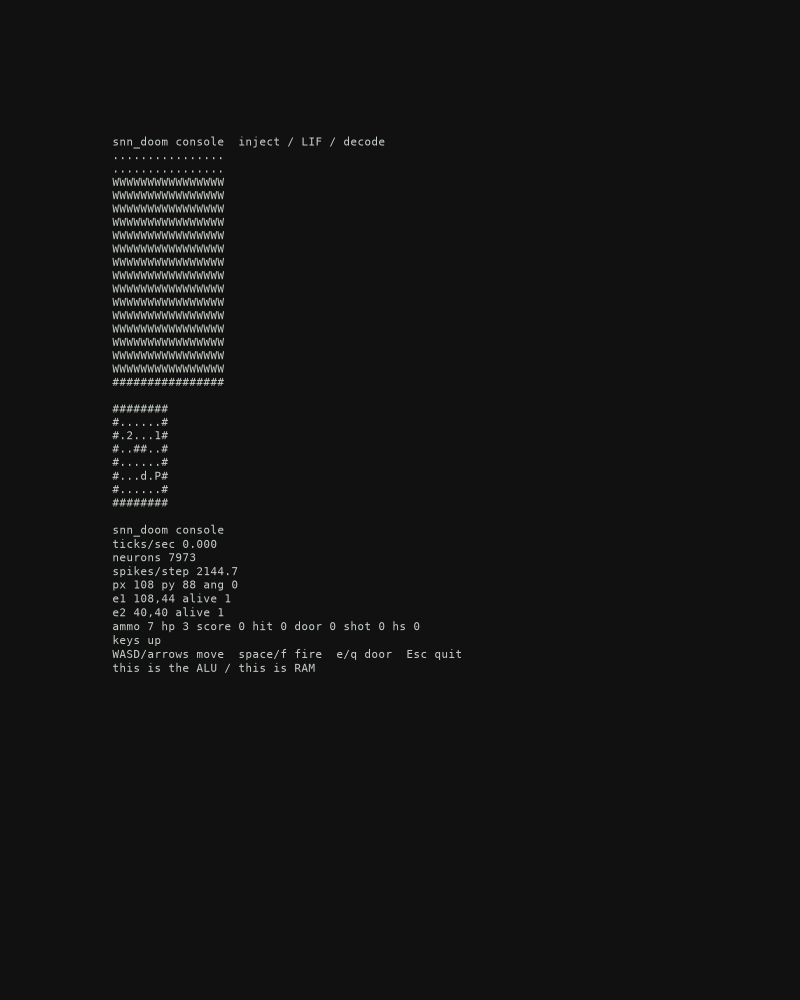
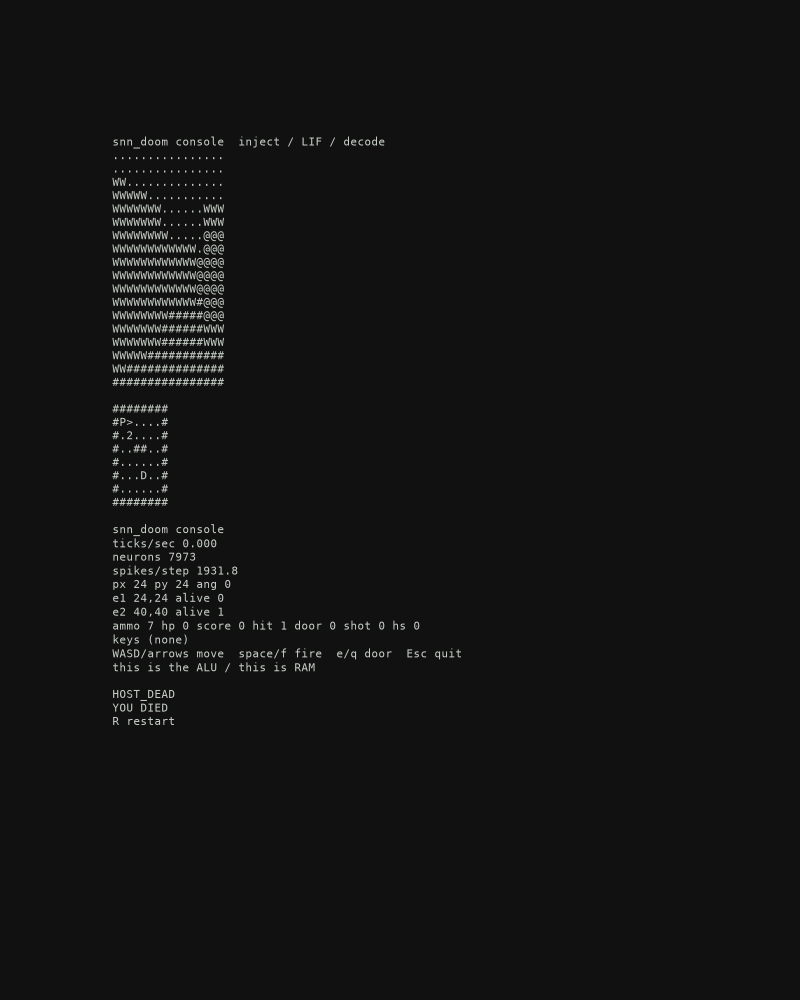
Show HOST_RADAR and HOST_DEAD in the README as GIFs.
play.gif is FRAME_READOUT beside HOST_RADAR. dead.gif is the YOU DIED splash on the same host surfaces.

Changed region(s): [[0.125, 0.465, 0.4062, 0.713], [0.1562, 0.155, 0.2812, 0.372]]

diff --git a/scripts/make_play_gif.py b/scripts/make_play_gif.py
@@ -1,21 +1,81 @@
 #!/usr/bin/env python3
 # Copyright (c) 2026 Martial Systems LLC
-"""Headless 16x18 play GIF plus a TTY still. No window."""
+"""Headless FRAME_READOUT + HOST_RADAR GIF, HOST_DEAD GIF, TTY still. No window."""
 from __future__ import annotations
 
 import sys
 from pathlib import Path
+
+import numpy as np
 
 ROOT = Path(__file__).resolve().parents[1]
 sys.path.insert(0, str(ROOT / "src"))
 
 from snn_doom.const import CENTER_COL
 from snn_doom.demo.console import render_tty
+from snn_doom.demo.radar import radar_rgb
 from snn_doom.demo.tapes import save_run
 from snn_doom.demo.view import frame_rgb, host_frame
 from snn_doom.modules.pipeline import build_doom_snn
 from snn_doom.teacher.maps import spawn
 from snn_doom.teacher.state import pack_input
+
+
+def _fonts():
+    from PIL import ImageFont
+
+    try:
+        return (
+            ImageFont.truetype("/System/Library/Fonts/Menlo.ttc", 16),
+            ImageFont.truetype("/System/Library/Fonts/Menlo.ttc", 42),
+            ImageFont.truetype("/System/Library/Fonts/Menlo.ttc", 18),
+        )
+    except OSError:
+        d = ImageFont.load_default()
+        return d, d, d
+
+
+def compose(view: np.ndarray, radar: np.ndarray, *, splash: bool = False) -> np.ndarray:
+    from PIL import Image, ImageDraw
+
+    title_h = 24
+    vh, vw = int(view.shape[0]), int(view.shape[1])
+    scale = max(vh // int(radar.shape[0]), 1)
+    rad = np.repeat(np.repeat(radar, scale, axis=0), scale, axis=1)
+    rh, rw = int(rad.shape[0]), int(rad.shape[1])
+    canvas_h = max(vh, rh) + title_h
+    canvas_w = vw + rw
+    canvas = np.zeros((canvas_h, canvas_w, 3), dtype=np.uint8)
+    canvas[title_h : title_h + vh, :vw] = view
+    y0 = title_h + (max(vh, rh) - rh) // 2
+    canvas[y0 : y0 + rh, vw : vw + rw] = rad
+    img = Image.fromarray(canvas)
+    draw = ImageDraw.Draw(img)
+    small, big, mid = _fonts()
+    draw.text((8, 4), "FRAME_READOUT", fill=(200, 208, 200), font=small)
+    draw.text((vw + 8, 4), "HOST_RADAR", fill=(200, 208, 200), font=small)
+    if splash:
+        overlay = Image.new("RGB", img.size, (40, 0, 0))
+        img = Image.blend(img, overlay, 0.55)
+        draw = ImageDraw.Draw(img)
+        cx, cy = img.size[0] // 2, img.size[1] // 2
+        draw.rectangle((cx - 180, cy - 70, cx + 180, cy + 70), fill=(64, 0, 0), outline=(255, 180, 180))
+        draw.text((cx, cy - 28), "YOU DIED", fill=(255, 232, 232), font=big, anchor="mm")
+        draw.text((cx, cy + 28), "HOST_DEAD   R restart", fill=(224, 192, 192), font=mid, anchor="mm")
+    return np.asarray(img)
+
+
+def _save_gif(path: Path, frames: list[np.ndarray], duration: int | list[int]) -> None:
+    from PIL import Image
+
+    imgs = [Image.fromarray(f) for f in frames]
+    imgs[0].save(path, save_all=True, append_images=imgs[1:], duration=duration, loop=0, disposal=2)
+
+
+def _panel(m, last: dict) -> np.ndarray:
+    view = frame_rgb(last["pixels"], scale=32, heading_col=CENTER_COL, dist=m.read_dists())
+    radar = radar_rgb(last["map_bits"], last["state"], door=last["door"])
+    return compose(view, radar)
 
 
 def main() -> None:
@@ -27,43 +87,48 @@ def main() -> None:
     frames = []
     poses = []
     tape = []
-    n = 32
+    n = 16
     last = host_frame(m, 0, raster=False)
-    rgb0 = frame_rgb(last["pixels"], scale=32, heading_col=CENTER_COL, dist=m.read_dists())
-    frames.append(rgb0)
+    frames.append(_panel(m, last))
     poses.append(dict(last["state"]))
     tape.append(0)
     for _ in range(n - 1):
         last = host_frame(m, bits, raster=False)
-        frames.append(frame_rgb(last["pixels"], scale=32, heading_col=CENTER_COL, dist=m.read_dists()))
+        frames.append(_panel(m, last))
         poses.append(dict(last["state"]))
         tape.append(bits)
     save_run(tape, poses, ROOT / "logs" / "runs" / "held_fwd.bits")
-    gif = docs / "play.gif"
-    try:
-        from PIL import Image
+    _save_gif(docs / "play.gif", frames, duration=280)
 
-        imgs = [Image.fromarray(f) for f in frames]
-        # 32 frames * 625 ms ~ 20 s
-        imgs[0].save(gif, save_all=True, append_images=imgs[1:], duration=625, loop=0)
-    except ImportError:
-        import matplotlib
+    m.reset(spawn(px=24, py=24, ex=24, ey=24, hp=1))
+    alive = {
+        "pixels": m.decode_pixels(),
+        "state": m.read_state(),
+        "map_bits": m.read_map_bits(),
+        "door": m.read_door(),
+    }
+    dead_frames = [_panel(m, alive)]
+    last = host_frame(m, 0, raster=False)
+    body = compose(
+        frame_rgb(last["pixels"], scale=32, heading_col=CENTER_COL, dist=m.read_dists()),
+        radar_rgb(last["map_bits"], last["state"], door=last["door"]),
+        splash=True,
+    )
+    dead_frames.append(body)
+    _save_gif(docs / "dead.gif", dead_frames, duration=[400, 2200])
 
-        matplotlib.use("Agg")
-        import matplotlib.pyplot as plt
-
-        plt.imsave(docs / "play.gif", frames[-1])
     tty = render_tty(
         last["pixels"],
         last["state"],
         last["map_bits"],
-        pressed={"up"},
+        pressed=set(),
         tps=0.0,
         n_neurons=last["n_neurons"],
         spikes_per_step=last["spikes_per_step"],
         door=last["door"],
         shot=last["shot"],
         hitscan=last["hitscan"],
+        dead=True,
     )
     (docs / "tty.txt").write_text(tty + "\n", encoding="utf-8")
     import matplotlib
@@ -77,7 +142,17 @@ def main() -> None:
     ax.text(0.02, 0.98, tty, family="monospace", fontsize=8, color="#c8d0c8", va="top", transform=ax.transAxes)
     fig.savefig(docs / "tty.png", dpi=100, facecolor=fig.get_facecolor())
     plt.close(fig)
-    print(json_dumps({"gif": str(gif), "frames": len(frames), "n_neurons": last["n_neurons"]}))
+    print(
+        json_dumps(
+            {
+                "play": str(docs / "play.gif"),
+                "dead": str(docs / "dead.gif"),
+                "play_frames": len(frames),
+                "dead_frames": len(dead_frames),
+                "n_neurons": last["n_neurons"],
+            }
+        )
+    )
 
 
 def json_dumps(obj) -> str:

diff --git a/tests/test_readme.py b/tests/test_readme.py
@@ -31,7 +31,12 @@ def test_readme_and_docs_prose() -> None:
     assert "python -m snn_doom.play" in readme
     assert "--scale" in readme
     assert (REPO / "docs" / "play.gif").is_file()
+    assert (REPO / "docs" / "dead.gif").is_file()
     assert (REPO / "docs" / "tty.png").is_file()
+    assert "docs/play.gif" in readme
+    assert "docs/dead.gif" in readme
+    assert "HOST_RADAR" in readme
+    assert "HOST_DEAD" in readme
     assert "six keys" in readme
     method = (REPO / "docs" / "methodology.md").read_text(encoding="utf-8")
     assert "7,217" in method

diff --git a/README.md b/README.md
@@ -17,7 +17,11 @@ python -m venv .venv && .venv/bin/pip install -e ".[play]"
 
 Same loop: `scripts/run_demo.py --play`. Default is the 16×18 VIEW, raster hidden, door at (4,5) closed. `--lab` shows the spike raster. `--fast` skips it. `--scale 32` is chunky pixels. `--map corridor|arena|door`. `--tty` is the terminal view. `--fwd` holds forward. `--ghost logs/runs/held_fwd.bits` overlays a recorded path. `--no-radar` hides HOST_RADAR. `--no-dead` closes on death instead of HOST_DEAD.
 
-![16x18 VIEW](docs/play.gif)
+![FRAME_READOUT plus HOST_RADAR](docs/play.gif)
+
+HOST_DEAD:
+
+![YOU DIED](docs/dead.gif)
 
 TTY:
 
